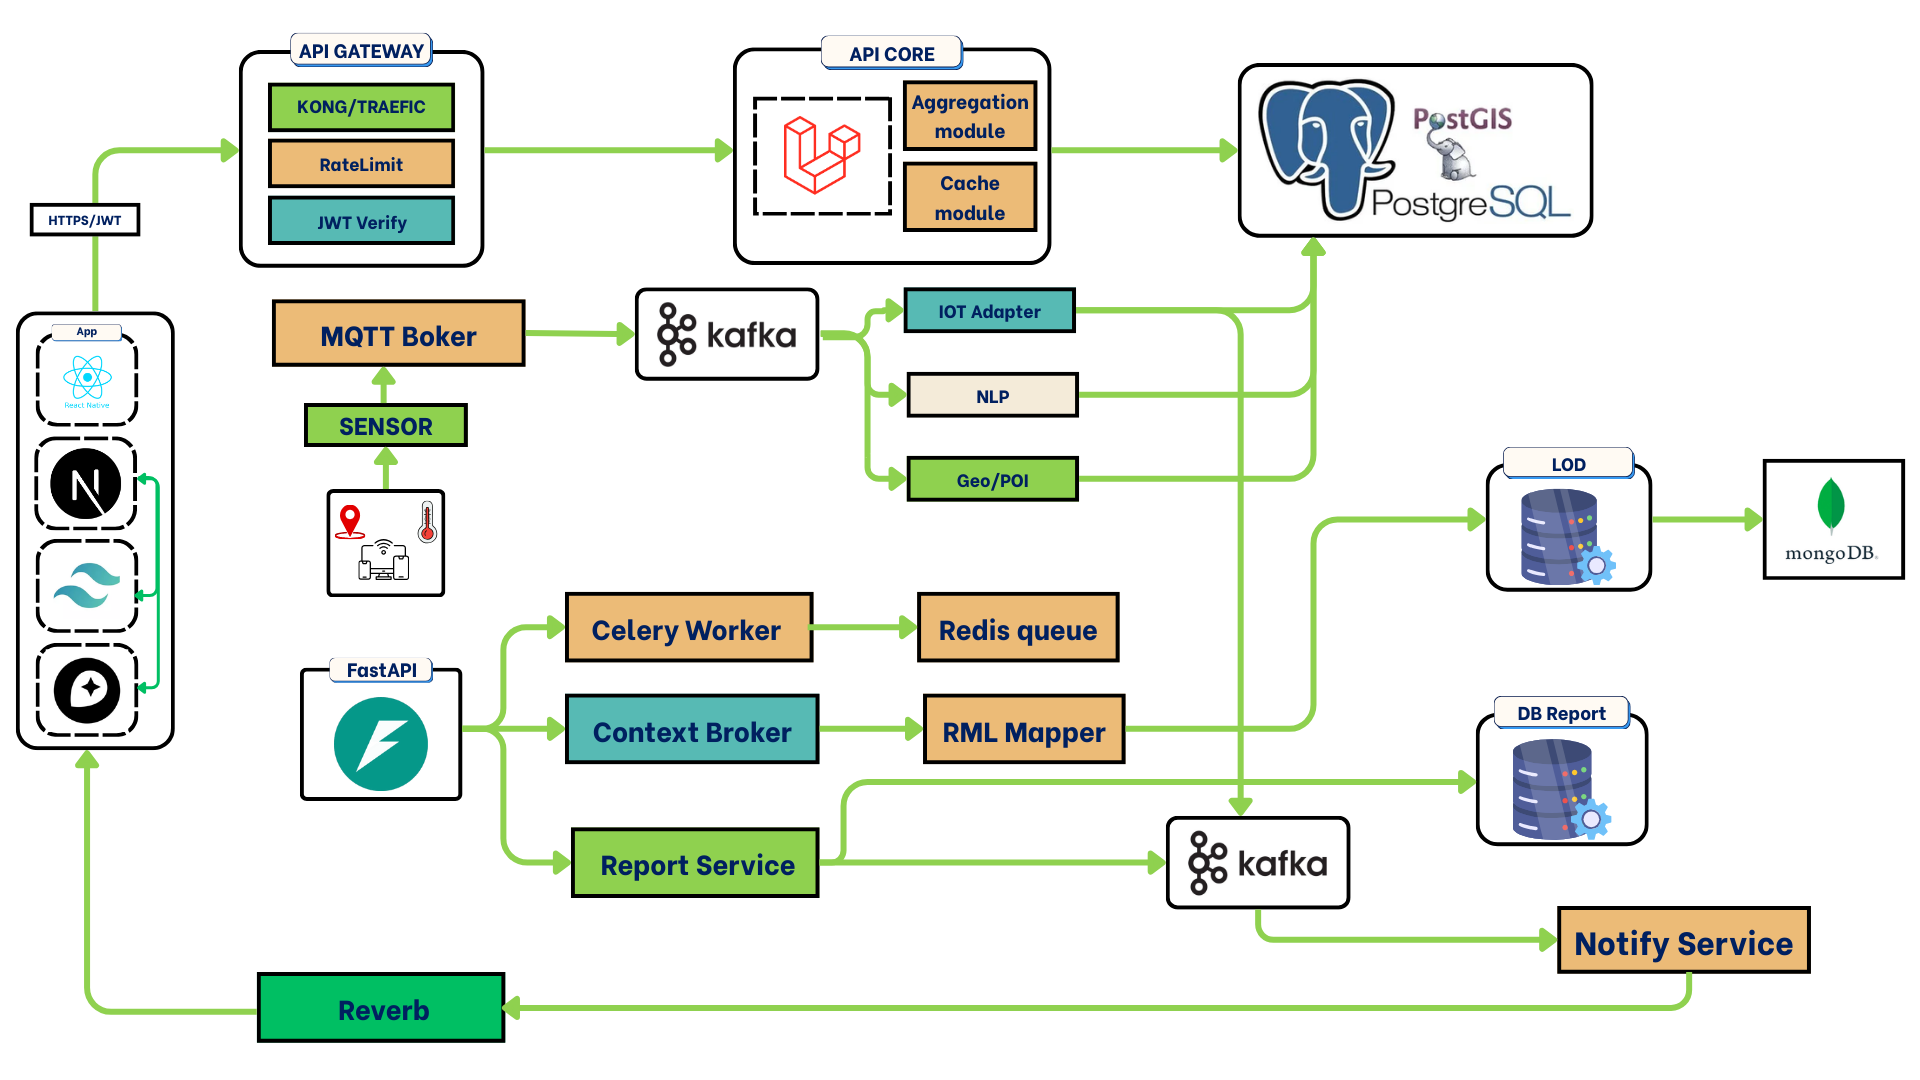
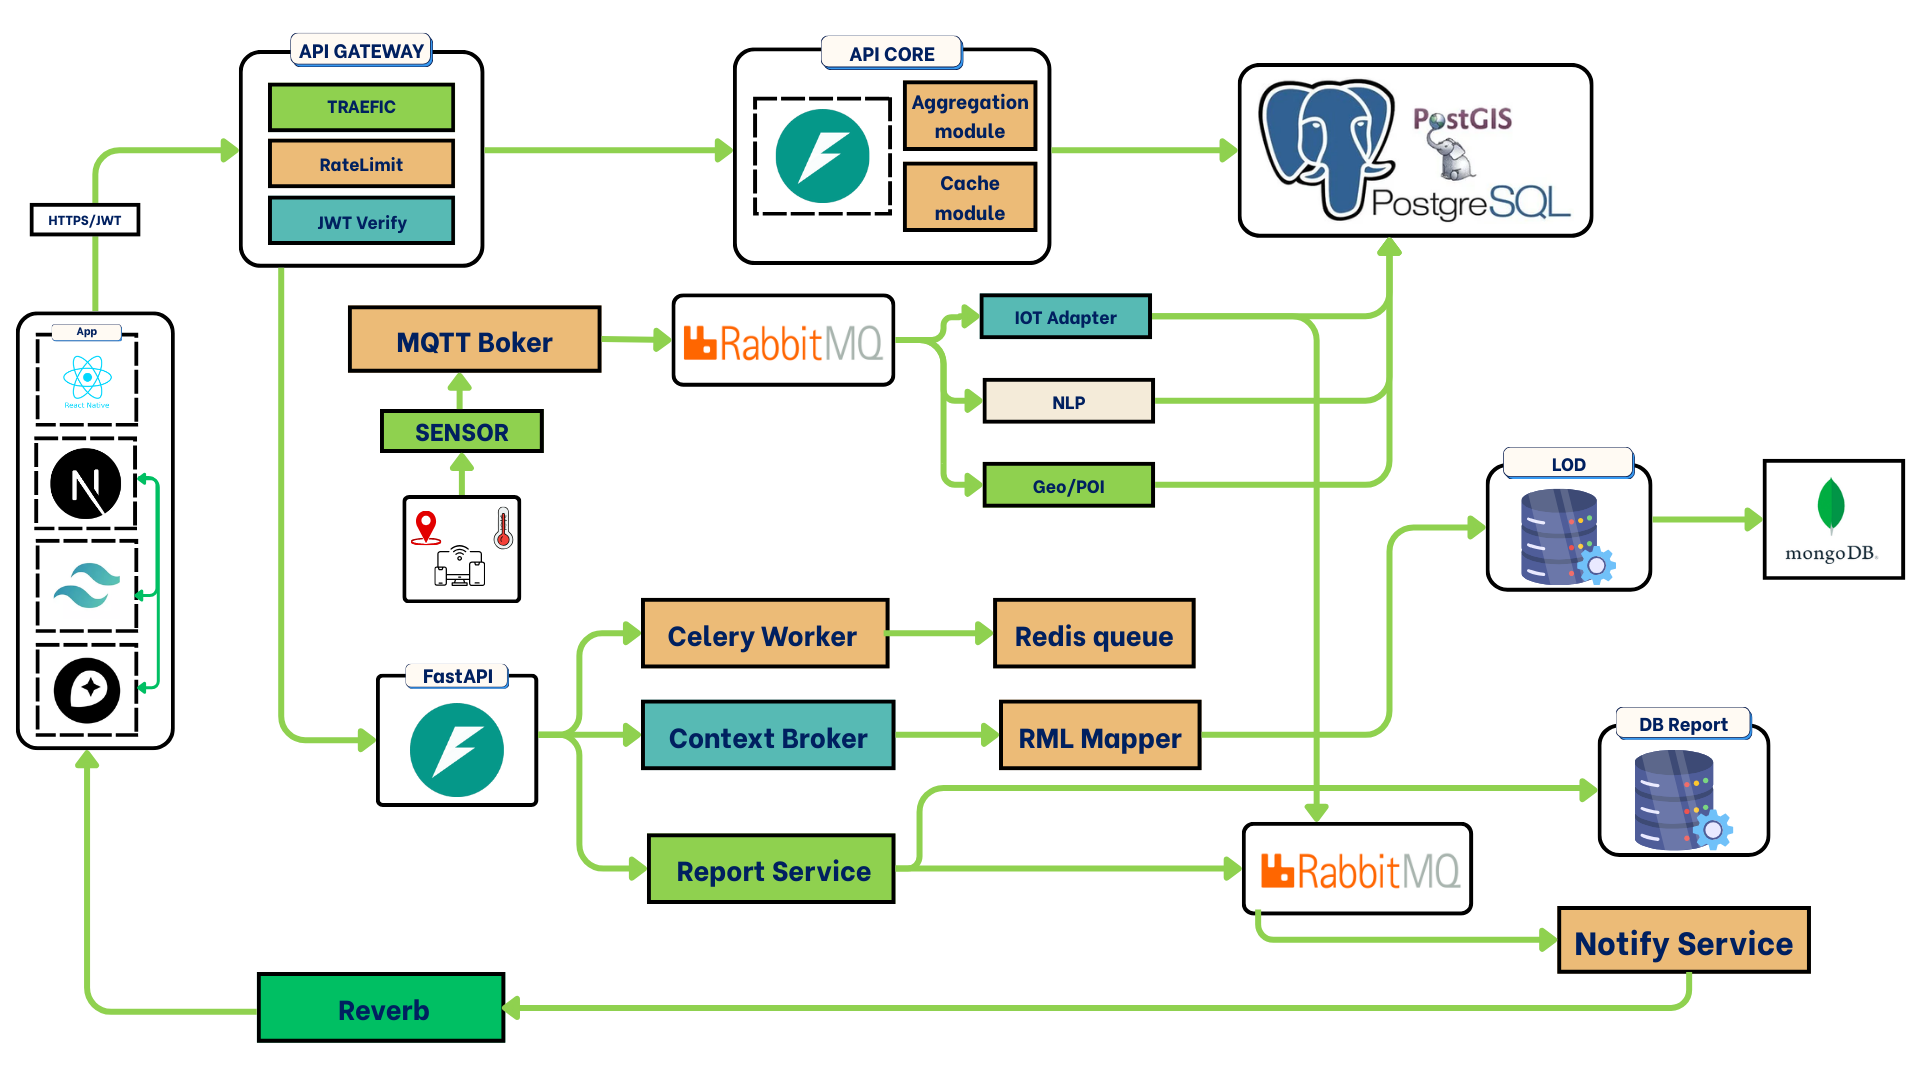
fix: Architecture Diagram

diff --git a/README.md b/README.md
@@ -88,7 +88,7 @@ Dự án tập trung hình thành một nền tảng toàn diện kết hợp AI
 
 ## 🧱 Kiến trúc hệ thống
 
-![Banner](assets/images/Kien_truc_he_thong_GreenEduMap.png)
+![Banner](assets/images/kien_truc_he_thong_greenedumap.png)
 
 ### Thành phần và công nghệ sử dụng
 
@@ -96,10 +96,10 @@ Dự án tập trung hình thành một nền tảng toàn diện kết hợp AI
 | ------------------ | ------------------------------------------------------- |
 | **Mobile App**     | React Native (iOS & Android)                            |
 | **Web**  | Next.js 15                                              |
-| **Backend Core**   | Laravel (PHP), Redis (Cache)                            |
+| **Backend Core**   | FastAPI (Python), Redis (Cache)                            |
 | **AI Services**    | FastAPI (Python) cho NLP, Computer Vision, scikit-learn |
 | **API Gateway**    | Traefik, Keycloak (Auth)                                |
-| **Message Broker** | Apache Kafka, MQTT (EMQX/Mosquitto)                     |
+| **Message Broker** | RabbitMQ, MQTT (EMQX/Mosquitto)                     |
 | **Realtime**       | Reverb (WebSocket)                                      |
 | **Database**       | PostgreSQL + PostGIS (GeoData), OpenSearch              |
 | **Semantic**       | FiWARE Orion-LD, MongoDB                                |
